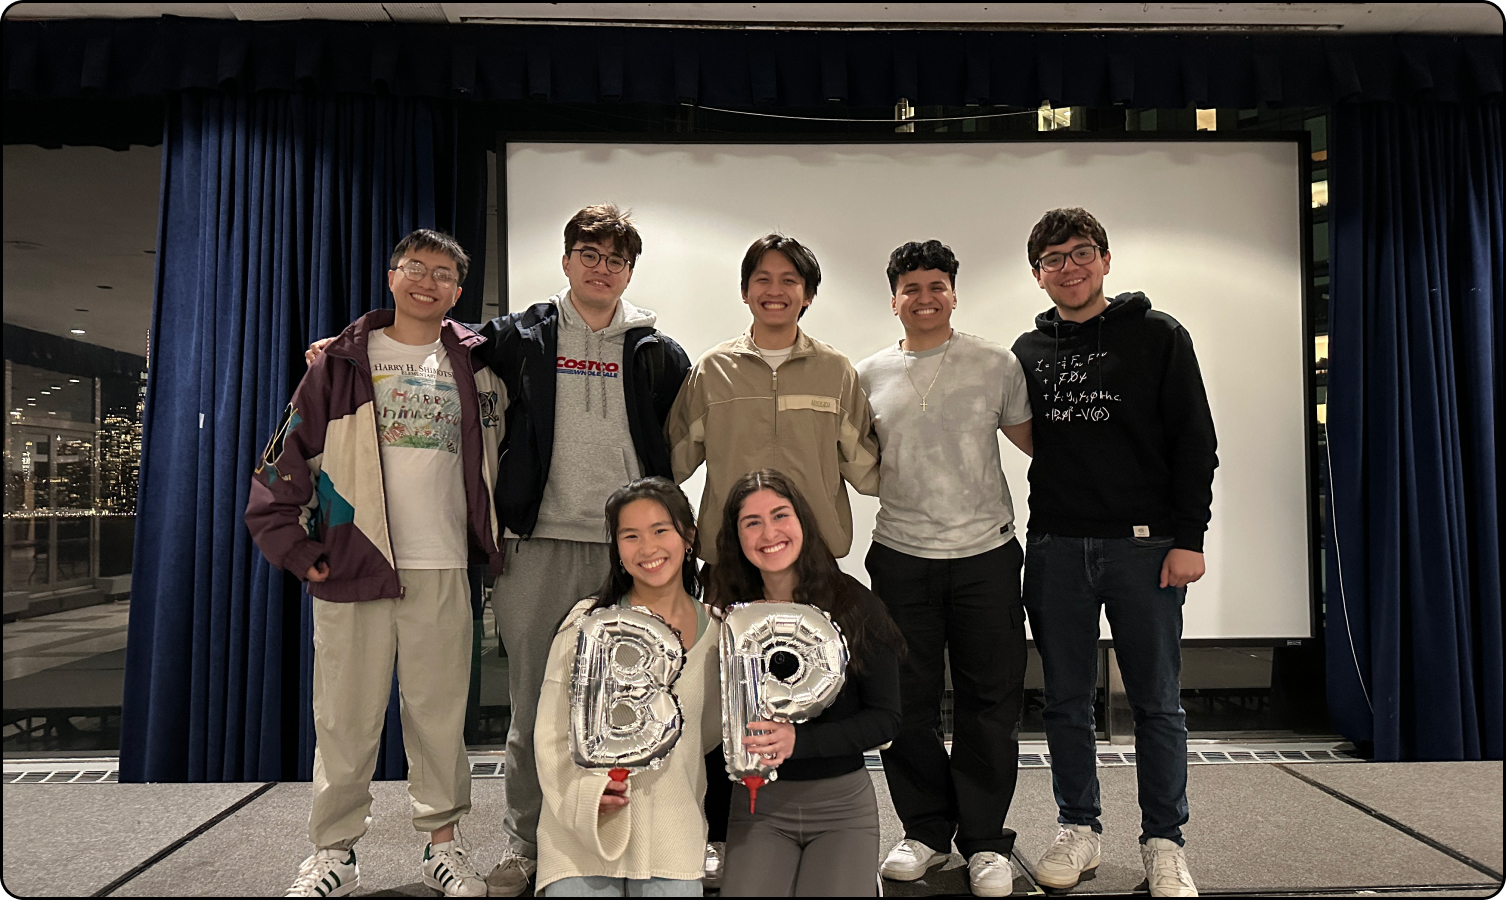
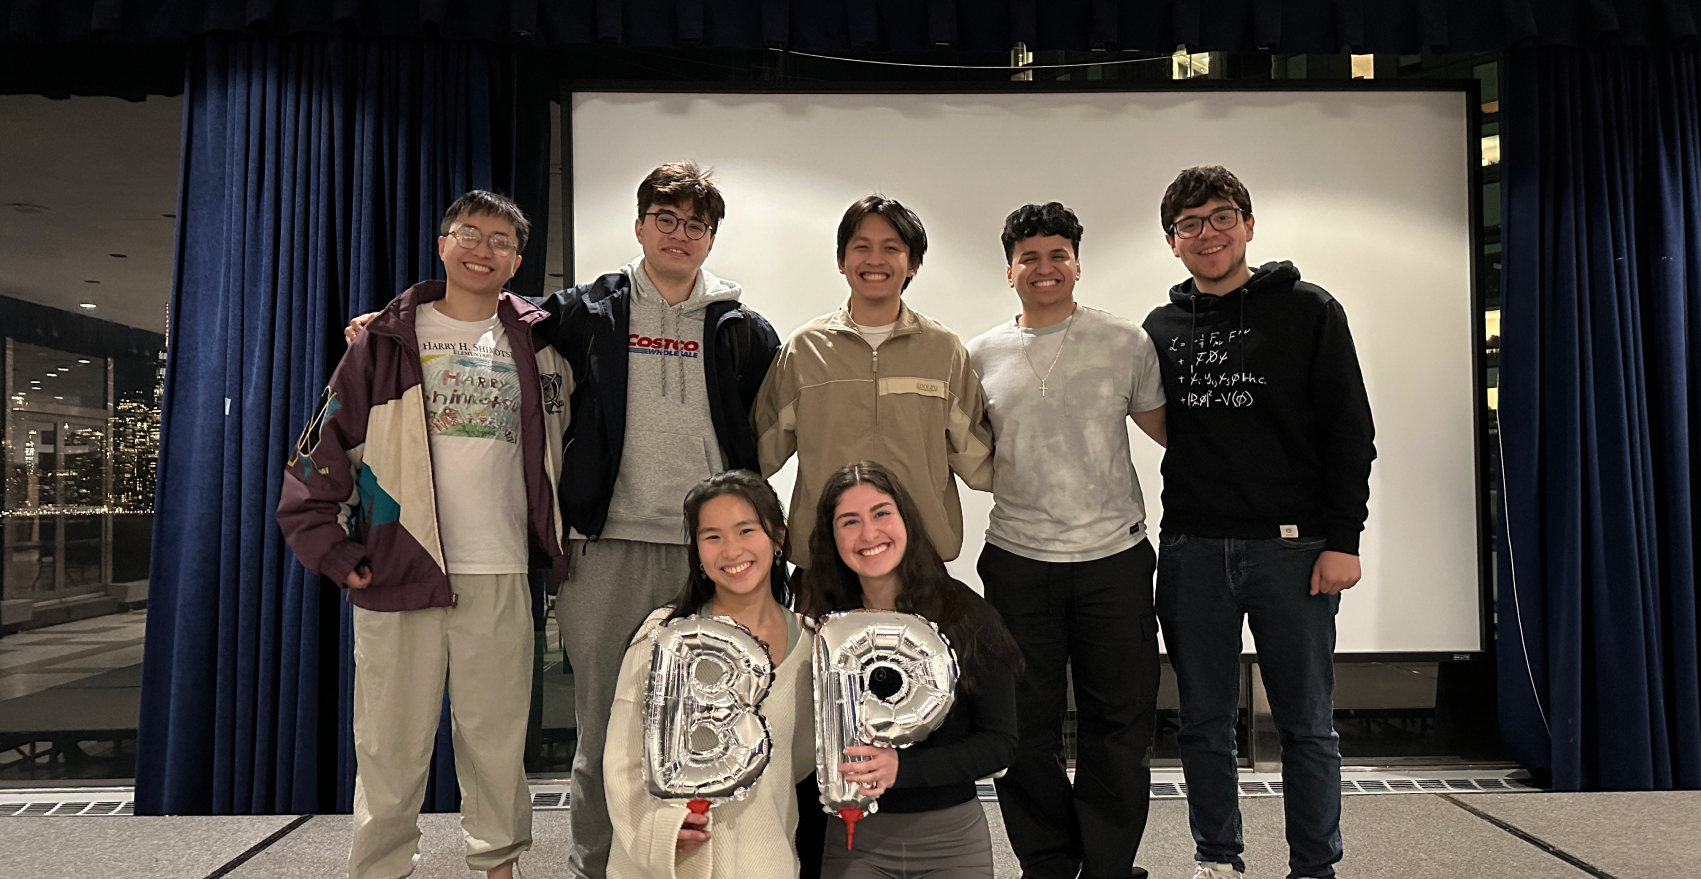
Fix styling issues

diff --git a/src/_includes/_layouts/ForStudents.jsx b/src/_includes/_layouts/ForStudents.jsx
@@ -12,45 +12,45 @@ export default ({ comp }) => (
     </head>
     <body>
       <comp.Navbar />
-      <section className="grow flex flex-col lg:flex-row lg:items-center lg:min-h-[42rem] bg-secondary relative overflow-hidden">
+      <section className="grow flex flex-col lg:flex-row lg:items-center lg:min-h-[42rem] bg-primary relative overflow-hidden">
         <div className="lg:w-7/12 lg:pl-40 lg:pr-20 text-negative max-lg:w-full max-lg:px-8 max-lg:flex max-lg:flex-col max-lg:justify-center max-large:items-center">
-          <h1 className="lg:text-4xl text-7xl my-12 lg:px-0 px-10 tracking-wide max-lg:text-center text-[#00070E]">
+          <h1 className="lg:text-4xl text-7xl my-12 lg:px-0 px-10 tracking-wide max-lg:text-center">
             <strong>Students</strong>
           </h1>
-          <p className="lg:text-xl text-4xl mb-12 lg:px-0 px-10 tracking-wide max-lg:text-center text-[#00070E]">
+          <p className="lg:text-xl text-4xl mb-12 lg:px-0 px-10 tracking-wide max-lg:text-center">
             We’re proud of the diverse membership here at Blueprint. Join us and
             make an impact with our opportunities in product design, project
             management, or software development!
           </p>
           <div className="flex space-x-6 max-lg:flex-col max-lg:space-x-0 max-lg:space-y-8 max-lg:w-full max-lg:items-center">
             <comp.Button
-              style="px-8 py-4 rounded-lg bg-transparent border-2 border-[#00070E] text-[#00070E] font-semibold text-lg inline-block max-lg:px-12 max-lg:py-6 max-lg:text-4xl"
+              style="px-8 py-4 rounded-lg bg-transparent border-2 font-semibold text-lg inline-block max-lg:px-12 max-lg:py-6 max-lg:text-4xl"
               redirect_url={"https://discord.gg/G6aTAc9nFQ"}
               text={"Join Our Discord"}
             />
             <comp.Button
-              style="px-8 py-4 rounded-lg bg-transparent border-2 border-[#00070E] text-[#00070E] font-semibold text-lg inline-block max-lg:px-12 max-lg:py-6 max-lg:text-4xl"
+              style="px-8 py-4 rounded-lg bg-transparent border-2 font-semibold text-lg inline-block max-lg:px-12 max-lg:py-6 max-lg:text-4xl"
               redirect_url={"/projects"}
               text={"See Our Projects"}
             />
           </div>
         </div>
         <div className="lg:w-1/2 lg:pr-20 lg:pl-0 px-10 flex items-center justify-center py-8">
-          <div className="max-lg:p-8 lg:aspect-[4/3] lg:rounded-2xl lg:border-4 lg:border-solid lg:border-black lg:overflow-hidden">
+          <div className="max-lg:p-8 lg:rounded-2xl lg:overflow-hidden">
             <image
               src="../../assets/events/students_hero.jpg"
               alt="A photo of student Blueprint members"
-              className="w-full lg:h-full lg:object-cover max-lg:h-auto max-lg:object-contain max-lg:rounded-2xl max-lg:border-4 max-lg:border-solid max-lg:border-white"
+              className="w-full lg:h-full lg:object-cover max-lg:h-auto max-lg:object-contain max-lg:rounded-2xl"
             />
           </div>
         </div>
       </section>
       <section>
-        <h1 className="lg:text-5xl text-7xl flex flex-col items-center justify-center py-32 gap-y-6">
+        <h1 className="lg:text-5xl text-7xl flex flex-col items-center justify-center lg:pt-32 max-lg:py-32 gap-y-6">
           <strong>Our Teams</strong>
         </h1>
       </section>
-      <section className="grow flex flex-col lg:flex-row lg:items-center lg:min-h-[42rem] relative overflow-hidden">
+      <section className="grow flex flex-col lg:flex-row lg:items-center lg:min-h-[42rem] relative overflow-hidden lg:pb-32">
         <div className="lg:w-7/12 lg:pl-40 lg:pr-20 text-negative max-lg:w-full max-lg:px-8 max-lg:flex max-lg:flex-col max-lg:justify-start max-large:items-start">
           <h2 className="font-semibold lg:text-2xl text-5xl text-black">
             Project Teams
